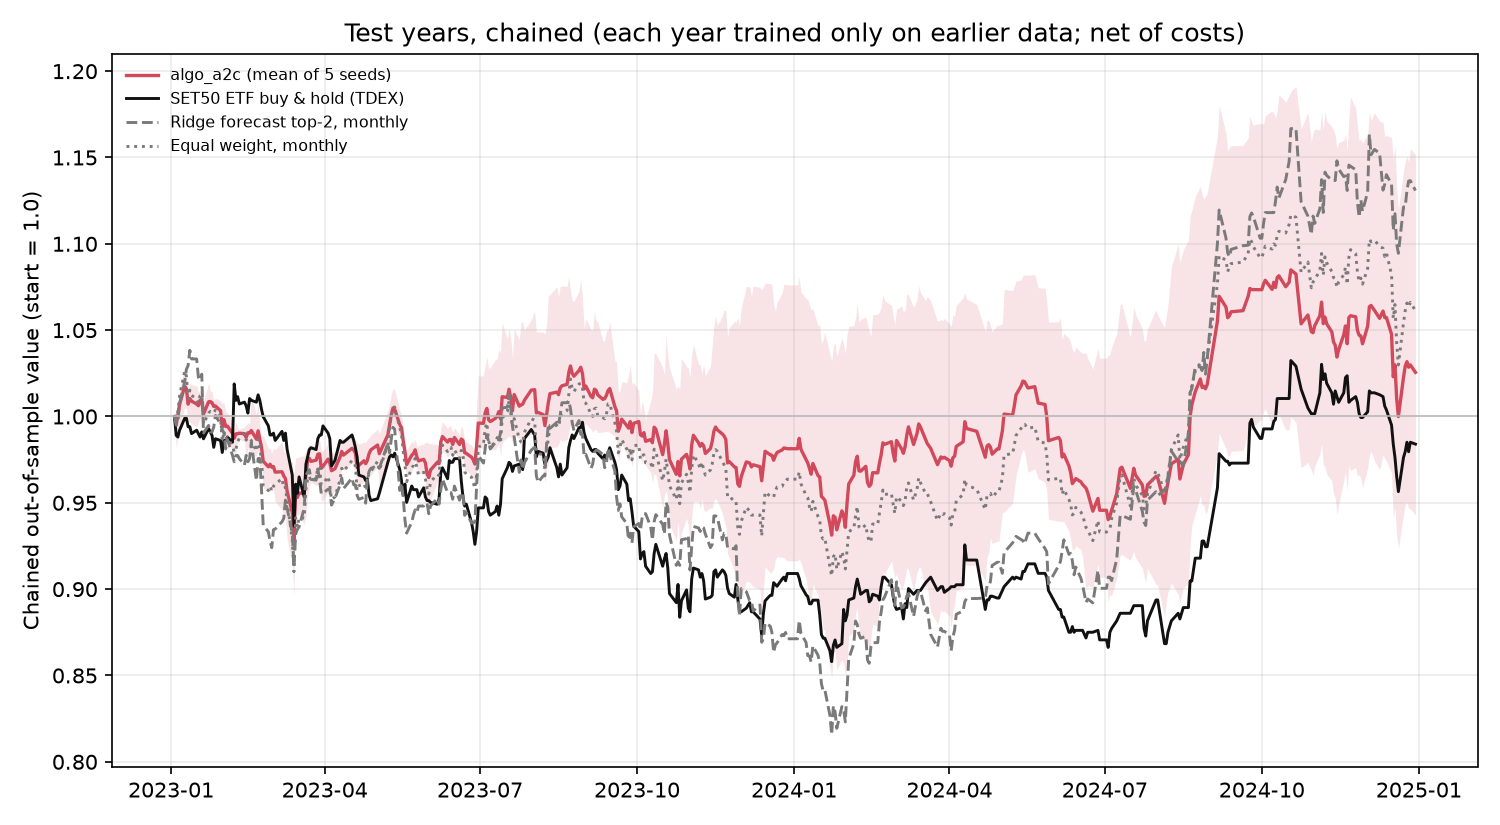
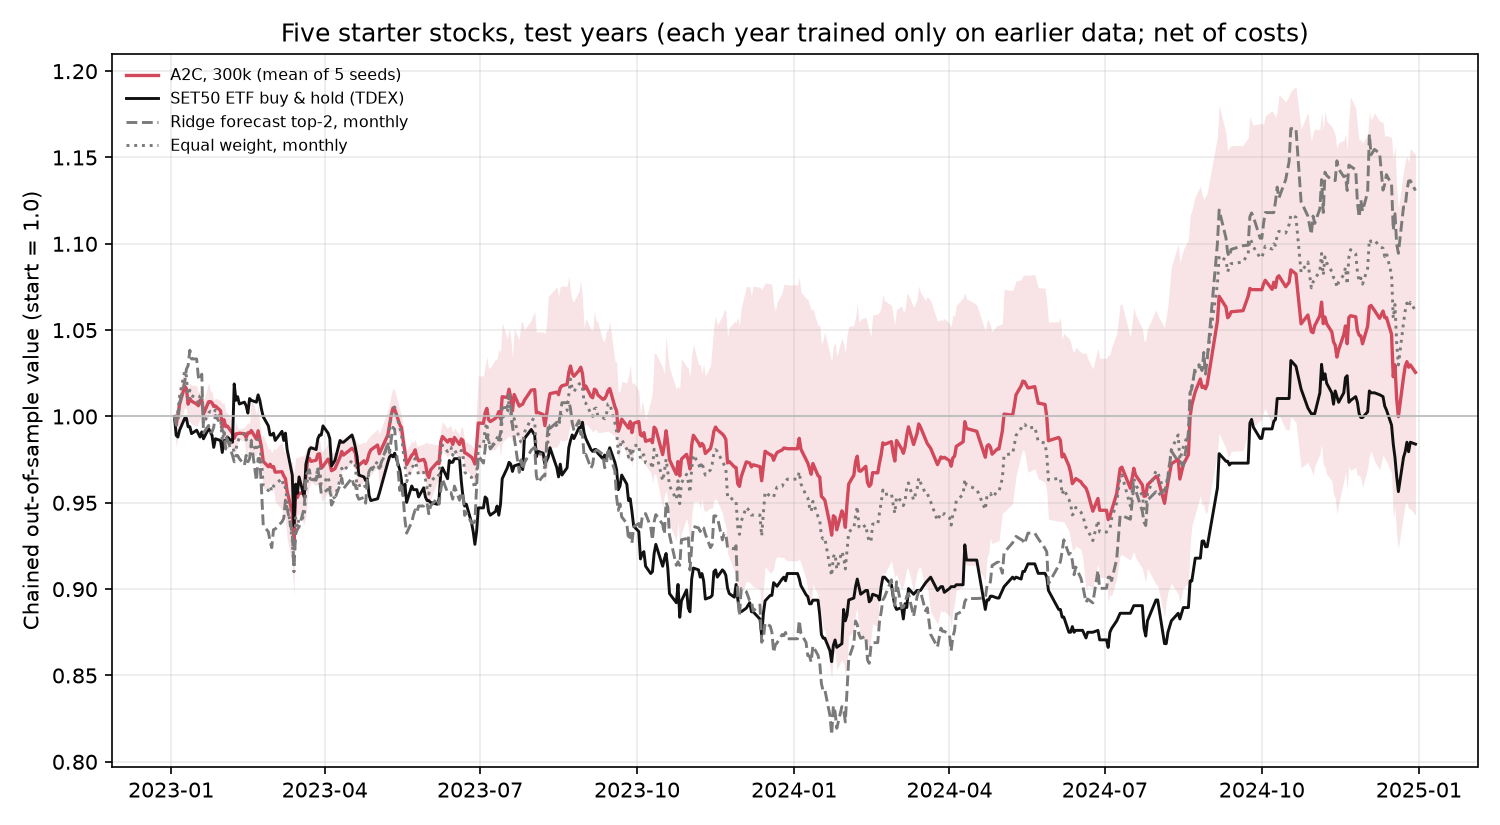
Add the single test-year evaluation to the report chapter (M8)
New section with the selection rule, both locked results (tab:test,
fig:test) and the 2024 stale-price problem. The opening, interpretation
and limitations no longer say the test years are unread. Test figures
redrawn with readable legend labels from the stage outputs. The full
report test-builds at 53 pages with no undefined references.

Changed region(s): [[0.1227, 0.0303, 0.8893, 0.1818]]

diff --git a/docs/report_drafts/results_title_alignment_20261106.tex b/docs/report_drafts/results_title_alignment_20261106.tex
@@ -3,10 +3,11 @@
 % \chapter{DISCUSSION}. It uses the report's own packages and column types (L, Y, booktabs, float).
 % New references are in docs/report_drafts/references_additions_20261106.tex.
 % Evidence tier: exploratory (Yahoo data; the five starter stocks and the point-in-time SET50;
-% validation years only). Numbers come from docs/long_term_reward_experiment_20261106.md,
+% validation years, plus one locked evaluation on the 2023-2024 test years). Numbers come from docs/long_term_reward_experiment_20261106.md,
 % docs/walk_forward_reward_20261106.md, docs/source_ablation_20261106.md,
 % docs/algorithm_comparison_20261107.md, docs/pit_walk_forward_20261107.md and, for the 300k-timestep
-% runs on BistKA (2026-11-25), docs/bistka_300k_results_20261125.md.
+% runs on BistKA (2026-11-25), docs/bistka_300k_results_20261125.md; the selection rule and the test
+% evaluation are in docs/final_design_decision_20261125.md and docs/final_test_results_20261125.md.
 
 \chapter{LONG-TERM, MULTI-SOURCE EXTENSION}
 
@@ -15,9 +16,9 @@ This chapter reports experiments that align the implementation with the project 
 All results are exploratory. They use Yahoo Finance prices for the five starter stocks (ADVANC, AOT,
 CPALL, KBANK, PTT) and the SET50 exchange-traded fund TDEX as the market series, because Yahoo now
 returns only one row for the SET indices. Section~\ref{sec:pit} repeats the evaluation on the
-point-in-time SET50 membership. Only validation years were read. The 2023--2024 test years
-and the sealed post-2024 holdouts remain untouched for a single final evaluation after the protocol
-is locked.
+point-in-time SET50 membership. Designs were compared and chosen on the validation years only.
+Section~\ref{sec:test} then evaluates the chosen designs once on the 2023--2024 test years. The sealed
+post-2024 holdout remains untouched.
 
 \section{Changes to the Environment and Objective}
 
@@ -542,6 +543,88 @@ about 13\% of the service hours. The 35 point-in-time
 models, trained with different library versions on the cluster, replayed on the development machine to
 within $6\times10^{-9}$ of their saved validation curves.
 
+\section{Single Evaluation on the Test Years}
+\label{sec:test}
+
+Every comparison so far used the validation years. Before the 2023--2024 test years were read, every
+design with complete validation curves was ranked by a rule fixed in advance. For each validation year
+it takes the annualised log return in excess of monthly equal weight of the same universe,
+$\frac{252}{N}\left(\ln\frac{V_N}{V_0}-\ln\frac{E_N}{E_0}\right)$, where $V$ is the design's value, $E$
+equal weight's and $N$ the number of sessions. It averages this over seeds and takes the median over
+the seven years, with ties broken by the worst year, drawdown, turnover and the smaller training budget.
+No DRL design scored above zero in either universe, so the rule's own fallback makes equal weight the
+choice that validation supports. The test then asks whether the rule's top DRL design in each universe
+nevertheless beats equal weight and the ETF on years it never saw. On the point-in-time SET50, that is
+the shared-weight design with cash capped at 20\%, as a seed ensemble of three models with the no-trade
+band (score $-0.01$). On the five starter stocks, it is A2C trained for 300{,}000 timesteps with five
+seeds (score $-0.16$). Both designs, their seeds and the statistics to report were fixed in two lock files,
+approved together before either ran. A script that refuses a changed configuration, uncommitted code or
+a second run of the same stage then ran each once. As in validation, the 2023 models trained only on data
+up to 2022, the 2024 models only on data up to 2023, and every trade paid the same costs.
+
+On the point-in-time SET50, the locked design was ahead of equal weight in both test years, by 2.2 points
+in 2023 and 0.9 points in 2024, and each of its three seeds was ahead in both years (Table~\ref{tab:test},
+Figure~\ref{fig:test}). Its score under the selection rule rose from $-0.01$ on validation to $+1.89$ on the
+test years. It held more cash than equal weight in the falling year 2023 (12.6\% against 1.2\%) and traded
+less (1.3 against 1.8 times its capital a year). The difference in Sharpe ratio, $+0.06$ ($-0.06$ to $0.17$),
+is not significant, and two years are too few to separate the two. Both lost money, and both trailed the
+market. The design lost to the ETF by 2.3 points in 2023 and by 14.9 points in 2024, and its Sharpe
+shortfall, $-0.79$ ($-1.66$ to $0.04$), falls just short of significance. Since its curve follows equal
+weight's closely, most of that gap is the gap between equal weight and the capitalisation-weighted ETF:
+4.4 points in 2023 and 15.8 points in 2024, a significant Sharpe shortfall of $-0.84$ ($-1.75$ to $-0.04$).
+Counting 22 point-in-time designs, every deflated Sharpe ratio was close to zero.
+
+\begin{table}[H]
+\centering
+\footnotesize
+\caption{The single evaluation on the test years 2023--2024: annual returns, the value of one baht chained over both years, the Sharpe ratio on the chained daily returns, and the worse of the two annual maximum drawdowns. DRL rows without ``ensemble'' are the mean over seeds. The ETF row applies to both universes. All strategies pay the same costs.}
+\label{tab:test}
+\begin{tabularx}{\textwidth}{@{}Yrrrrr@{}}
+\toprule
+Strategy & 2023 & 2024 & Two years & Sharpe & Max DD \\
+\midrule
+SET50 ETF buy-and-hold & $-9.1\%$ & $+8.2\%$ & 0.984 & $-0.01$ & $-14.3\%$ \\
+\addlinespace
+\multicolumn{6}{@{}l}{\emph{Point-in-time SET50}} \\
+DRL, cash-capped, ensemble + band (3 seeds) & $-11.4\%$ & $-6.7\%$ & 0.827 & $-0.80$ & $-15.6\%$ \\
+DRL, cash-capped, single models (3 seeds) & $-11.8\%$ & $-6.5\%$ & 0.825 & $-0.82$ & $-16.0\%$ \\
+Equal weight, monthly & $-13.5\%$ & $-7.6\%$ & 0.799 & $-0.86$ & $-18.3\%$ \\
+\addlinespace
+\multicolumn{6}{@{}l}{\emph{Five starter stocks}} \\
+DRL, A2C, 300{,}000 timesteps (5 seeds) & $-1.9\%$ & $+4.4\%$ & 1.026 & 0.19 & $-10.2\%$ \\
+Equal weight, monthly & $-3.6\%$ & $+10.1\%$ & 1.061 & 0.33 & $-11.3\%$ \\
+Ridge forecast, top two (baseline) & $-12.9\%$ & $+29.8\%$ & 1.131 & 0.52 & $-16.9\%$ \\
+\bottomrule
+\end{tabularx}
+\end{table}
+
+On the five starter stocks, A2C was 1.8 points ahead of equal weight in 2023 but 5.7 points behind in
+2024, and its selection score fell from $-0.16$ to $-2.46$. Its Sharpe difference, $-0.15$ ($-0.54$ to
+$0.21$), is not significant, nor is its gain over the ETF, $+0.20$ ($-0.73$ to $1.04$). The result
+depended heavily on the seed. Over the two years the five models ended between 0.943 and 1.152, and one
+held 71\% cash on average through 2023. The ridge forecasting baseline ended highest, but only through
+2024, after losing the most in 2023. As a baseline, it was never a candidate for selection.
+
+The 2024 prices turned out to be flawed, which was found only after the run. On many real 2024 trading
+days, Yahoo repeats the previous day's price with zero volume. This affects 17.5\% of the stock rows,
+every SET50 member (a median of 47 days) and the ETF (76 days). In earlier years the same pattern occurs
+almost only for one suspended stock. The session calendar, built to drop Yahoo's holiday rows, removed
+43 of the 243 sessions of 2024 from the point-in-time test. The five-stock test removed the 39 days on
+which all five stocks were stale. Training and the 2023 test are unaffected, and every strategy in a
+year sees the same prices. A stale price is followed by a real one, so annual returns are deferred rather
+than lost: a rough check from the raw prices gives $-5.8\%$ for equal weight over the 2024 SET50
+members, close to the $-7.6\%$ of monthly-rebalanced equal weight after costs. The models' 2024 inputs
+and their trades on stale days are affected in an unknown direction, and so are the 2024 risk measures.
+The locked results are reported as they stand. A check with corrected 2024 prices would need a new data
+source, and it would be a second look at the test years.
+
+\begin{figure}[H]
+\centering
+\includegraphics[width=\textwidth]{docs/figures/final_test_pit_chained_equity_20261125.png}
+\caption{Point-in-time SET50, test years 2023--2024: chained value of the locked DRL design (the seed ensemble with the no-trade band) and of its single models (mean of three seeds; the band shows their range), with the ETF and equal weight. Each year uses models trained only on earlier years; net of costs.}
+\label{fig:test}
+\end{figure}
+
 \section{Interpretation}
 
 On the five starter stocks, the long-term DRL design fixed the overtrading failure of the V2 objective.
@@ -571,19 +654,23 @@ and were significantly worse than the market and equal weight; A2C was the best 
 significantly better than PPO or either reference. Training three times longer did not help: PPO and the
 point-in-time agent learned to hold much more cash, which cut their returns and their drawdowns, and left
 the point-in-time ensemble's Sharpe ratio level with the market's.
+The single evaluation on the test years points the same way. The design chosen by the fixed rule was
+ahead of equal weight in both years, but not significantly. It lost money over 2023--2024 and trailed
+the market ETF. On the five starter stocks, A2C trailed equal weight.
 The evidence therefore does not support a claim that this DRL design improves long-term profit in the
 Thai stock market. Such a claim would need a policy that adds value over equal weight after costs,
 survivorship-free licensed data, and the remaining data sources (fundamentals, news sentiment,
-investor flow, and further point-in-time official macro data), evaluated once on the untouched test years.
+investor flow, and further point-in-time official macro data), evaluated once on the sealed post-2024
+holdout.
 
 \section{Limitations of the Extension}
 
 \begin{enumerate}
-  \item \textbf{Exploratory data tier.} Prices, the ETF series, and the macro proxies come from Yahoo Finance, not from the licensed SETSMART package requested for the project. Yahoo prices are adjusted for splits and dividends but carry no trading-status, suspension, or corporate-action records, so a suspended stock and a missing price look the same.
+  \item \textbf{Exploratory data tier.} Prices, the ETF series, and the macro proxies come from Yahoo Finance, not from the licensed SETSMART package requested for the project. Yahoo prices are adjusted for splits and dividends but carry no trading-status, suspension, or corporate-action records, so a suspended stock and a missing price look the same. On many real trading days of 2024, Yahoo also repeats the previous price with zero volume, which affects the 2024 test year (Section~\ref{sec:test}).
   \item \textbf{Survivorship.} The point-in-time membership is official, but 38 of its 227 tickers, mostly delisted or merged companies, have no prices. They account for 13\% of SET50 member-sessions. The missing names bias the results in both directions: failed companies that Yahoo dropped would have lowered an equal-weight return, and companies taken over at a premium would have raised it. Only the ETF benchmark is free of this gap. Results on fixed stock lists are biased in a known direction: choosing today's SET50 members with hindsight added 6.6 percentage points a year to equal weight (Section~\ref{sec:pit}).
   \item \textbf{Cost model.} Every trade pays 0.15\% commission plus 0.05\% slippage per side, which covers the published explicit cost of about 0.176\%. Market impact, the wider bid--ask spreads of smaller members, board lots, daily price limits, and the minimum tick are not modelled. The costs of high-turnover policies are therefore, if anything, understated.
   \item \textbf{Macro and alternative data.} The daily macro proxies are market prices and therefore point-in-time; on the point-in-time agent they lowered the return (Section~\ref{sec:pit}). The Bank of Thailand macro history, however, is a current revised vintage, so it was kept out of the models. The official policy-rate decision history is point-in-time; added to the point-in-time agent, it lowered the return, and the trained models barely used it (Section~\ref{sec:pit}). Fundamentals cover only recent years for the five starter stocks, and news sentiment and investor flow are implemented without historical data. The \emph{multi-source} claim therefore rests on price, technical, market, macro-proxy, and policy-rate inputs only. Of these, only market context helped, borderline and only on the five starter stocks.
-  \item \textbf{Validation years only.} Designs were compared and chosen on the validation years, so the chosen design's validation performance is optimistic. The sticky slot order, the shared-weight actor, the seed ensemble, the no-trade band, the cash cap and the training budget, for example, were chosen after seeing earlier point-in-time runs. The deflated Sharpe ratio corrects for this only in part. The 2023--2024 test years and the sealed post-2024 holdout have not been read.
+  \item \textbf{Selection on validation years.} Designs were compared and chosen on the validation years, so the chosen design's validation performance is optimistic. The sticky slot order, the shared-weight actor, the seed ensemble, the no-trade band, the cash cap and the training budget, for example, were chosen after seeing earlier point-in-time runs. The deflated Sharpe ratio corrects for this only in part. The test years were read once, after the designs were locked, but two years are too few to separate the leading strategies. The sealed post-2024 holdout has not been read.
   \item \textbf{Training budget, seeds and settings.} Most models trained for 100{,}000 timesteps with three seeds on the 8~GB development machine. Only the five algorithms on the five starter stocks and the shared-weight point-in-time design were trained for 300{,}000 timesteps with five seeds, on the HPC cluster, and longer training mainly raised the cash holding (Section~\ref{sec:budget}). The budget was not tuned, and neither were the algorithms' settings: the off-policy algorithms ran with fixed replay and batch settings and no limit on weekly weight changes, and were compared on the five starter stocks only.
   \item \textbf{Slot order and turnover.} With the dense policy head, the agent scores slot positions rather than stocks, so any change in the slot order changes portfolio weights. The sticky slot order removes almost all of these changes, and the shared-weight actor removes the dependence entirely, as checked on all 21 of its trained models. Neither limits the policy's own week-to-week reweighting: after the initial purchase, the shared-weight agent still turned over 3.4 times its capital a year, against 0.9 for equal weight. A 0.5-point no-trade band cut this to 0.7 times a year in the seed ensemble. Its width was not tuned, and part of its gain, in 2020, came from cash it happened to leave in place. Training with the band cut turnover as well, but doubled the average cash holding, to 19\%.
 \end{enumerate}

diff --git a/IMPROVEMENT_MILESTONES.md b/IMPROVEMENT_MILESTONES.md
@@ -220,7 +220,7 @@ Goal: final evidence for each research question in the implementation plan.
 
 ## M8 — Final report, presentation, and reproducibility (W9–W10)
 
-- `[~]` Rewrite `docs/final_methodology_results.md` (last updated 2026-05-31) and `kvis_final_research_report.tex` with the M1–M7 results. Answer each research question explicitly, including negative results. *Per-question answers drafted 2026-11-11 in [`docs/research_question_answers_20261111.md`](docs/research_question_answers_20261111.md), with the evidence and gaps for RQ1–RQ6. A drop-in LaTeX chapter with the M1–M7 results is ready: `docs/report_drafts/results_title_alignment_20261106.tex`, plus `references_additions_20261106.tex`. `\input` it before `\chapter{DISCUSSION}`; a test build of the full report compiles cleanly with XeLaTeX (39 pages). It now includes the algorithm comparison and the point-in-time SET50 evaluation, and since 2026-11-25 the five algorithms and the longer training on BistKA (the test build has 50 pages).*
+- `[~]` Rewrite `docs/final_methodology_results.md` (last updated 2026-05-31) and `kvis_final_research_report.tex` with the M1–M7 results. Answer each research question explicitly, including negative results. *Per-question answers drafted 2026-11-11 in [`docs/research_question_answers_20261111.md`](docs/research_question_answers_20261111.md), with the evidence and gaps for RQ1–RQ6. A drop-in LaTeX chapter with the M1–M7 results is ready: `docs/report_drafts/results_title_alignment_20261106.tex`, plus `references_additions_20261106.tex`. `\input` it before `\chapter{DISCUSSION}`; a test build of the full report compiles cleanly with XeLaTeX (39 pages). It now includes the algorithm comparison and the point-in-time SET50 evaluation, and since 2026-11-25 the five algorithms, the longer training on BistKA and the single test-year evaluation (the test build has 53 pages).*
 - `[~]` Write a limitations section covering licensed versus exploratory data, survivorship bias, the cost model, and the revised macro data. *Drafted as "Limitations of the Extension" in the drop-in chapter (2026-11-07). It still needs merging with the report's existing pilot limitations.*
 - `[ ]` Update the Beamer deck and posters. Add the team photo and the approved member paragraphs, which are still pending.
 - `[~]` Package reproducibility: one documented command per stage, a slim archive of configs, receipts, and metrics, with large checkpoints excluded. *Runbook [`docs/reproduce_20261111.md`](docs/reproduce_20261111.md) and `scripts/build_slim_results_archive.py` added 2026-11-11. The one-off price-map step of 2026-11-07 is now scripted: `scripts/build_member_price_map.py` reproduces that map byte for byte (2026-11-11). The archive was built after the final runs (2026-11-11): 28 run folders, 3,035 files, 53.8 MB, verified, at commit `d23572a` (`results/slim_archive_20261111.tar.gz` with a SHA-256 receipt). It was rebuilt after the cash-capped run (2026-11-20): 31 run folders, 3,260 files, 59.1 MB, verified, at commit `9920591` (`results/slim_archive_20261120.tar.gz`). The single test-year evaluation ran on 2026-11-25 (`results/final_test_point_in_time/`, `results/final_test_five_stock/`, `results/FINAL_TEST_LEDGER.jsonl`); the archive still needs a rebuild to include it.*

diff --git a/PROGRESS_CHECKLIST.md b/PROGRESS_CHECKLIST.md
@@ -29,6 +29,7 @@ Packet: [`docs/final_design_decision_20261125.md`](docs/final_design_decision_20
   - **Point-in-time (headline):** the DRL design beat equal weight in both years (−11.4% against −13.5% in 2023, −6.7% against −7.6% in 2024), not significantly. It lost to the SET50 ETF (−9.1%, +8.2%). Two years chained: 0.827, against 0.799 for equal weight and 0.984 for the ETF.
   - **Five-stock (secondary):** A2C 300k −1.9% and +4.4% (two years 1.026), against equal weight −3.6% and +10.1% (1.061) and the ETF (0.984). Neither difference is significant, and the seeds' two-year results ranged from 0.943 to 1.152.
   - **Data problem found after the run:** Yahoo's 2024 prices have stale zero-volume rows on real trading days (17.5% of stock rows; every SET50 member; the ETF). The test calendars dropped 43 (point-in-time) and 39 (five-stock) 2024 sessions. Training and 2023 are unaffected. The locked results stand. A sensitivity check with corrected 2024 prices needs a download and its own approved lock.
+- `[x]` **Report chapter updated (2026-11-25):** a new section, "Single Evaluation on the Test Years", gives the selection rule, both locked results (table and figure) and the 2024 data problem. The opening, interpretation and limitations no longer say the test years are unread. The full report test-builds at 53 pages with no undefined references or overfull lines.
 - `[ ]` **Holdout stage:** check the holdout for the same stale rows inside the approved holdout stage, before any model is evaluated on it.
 - `[~]` **Holdout stage:** the seal-checking loader is built (`src/data/sealed_holdout.py`, 9 tests; the real holdout was not opened); wiring it into a holdout run is still to do. For the point-in-time design it also needs the 2025–2026 SET50 lists (a download that needs approval), or the December 2024 membership held fixed.
 

diff --git a/docs/final_test_results_20261125.md b/docs/final_test_results_20261125.md
@@ -117,3 +117,5 @@ While checking the results, I found that the point-in-time test had only 200 ses
 - **Five-stock:** `results/final_test_five_stock/`, with the same layout and no ensemble. The summary also includes buy and hold of each stock and the ridge-forecast baseline.
 - **Ledger:** `results/FINAL_TEST_LEDGER.jsonl`.
 - **Logs:** `~/drl_runs/final_test_logs_20261125/` (local).
+- **Figures:** redrawn with readable legend labels in `~/drl_runs/final_test_figures_20261125/` from the stage outputs (no new evaluation; the chained curves are identical to the stage summaries), and copied to `docs/figures/`.
+- **Report chapter:** section "Single Evaluation on the Test Years" (`tab:test`, `fig:test`) in `docs/report_drafts/results_title_alignment_20261106.tex`.
